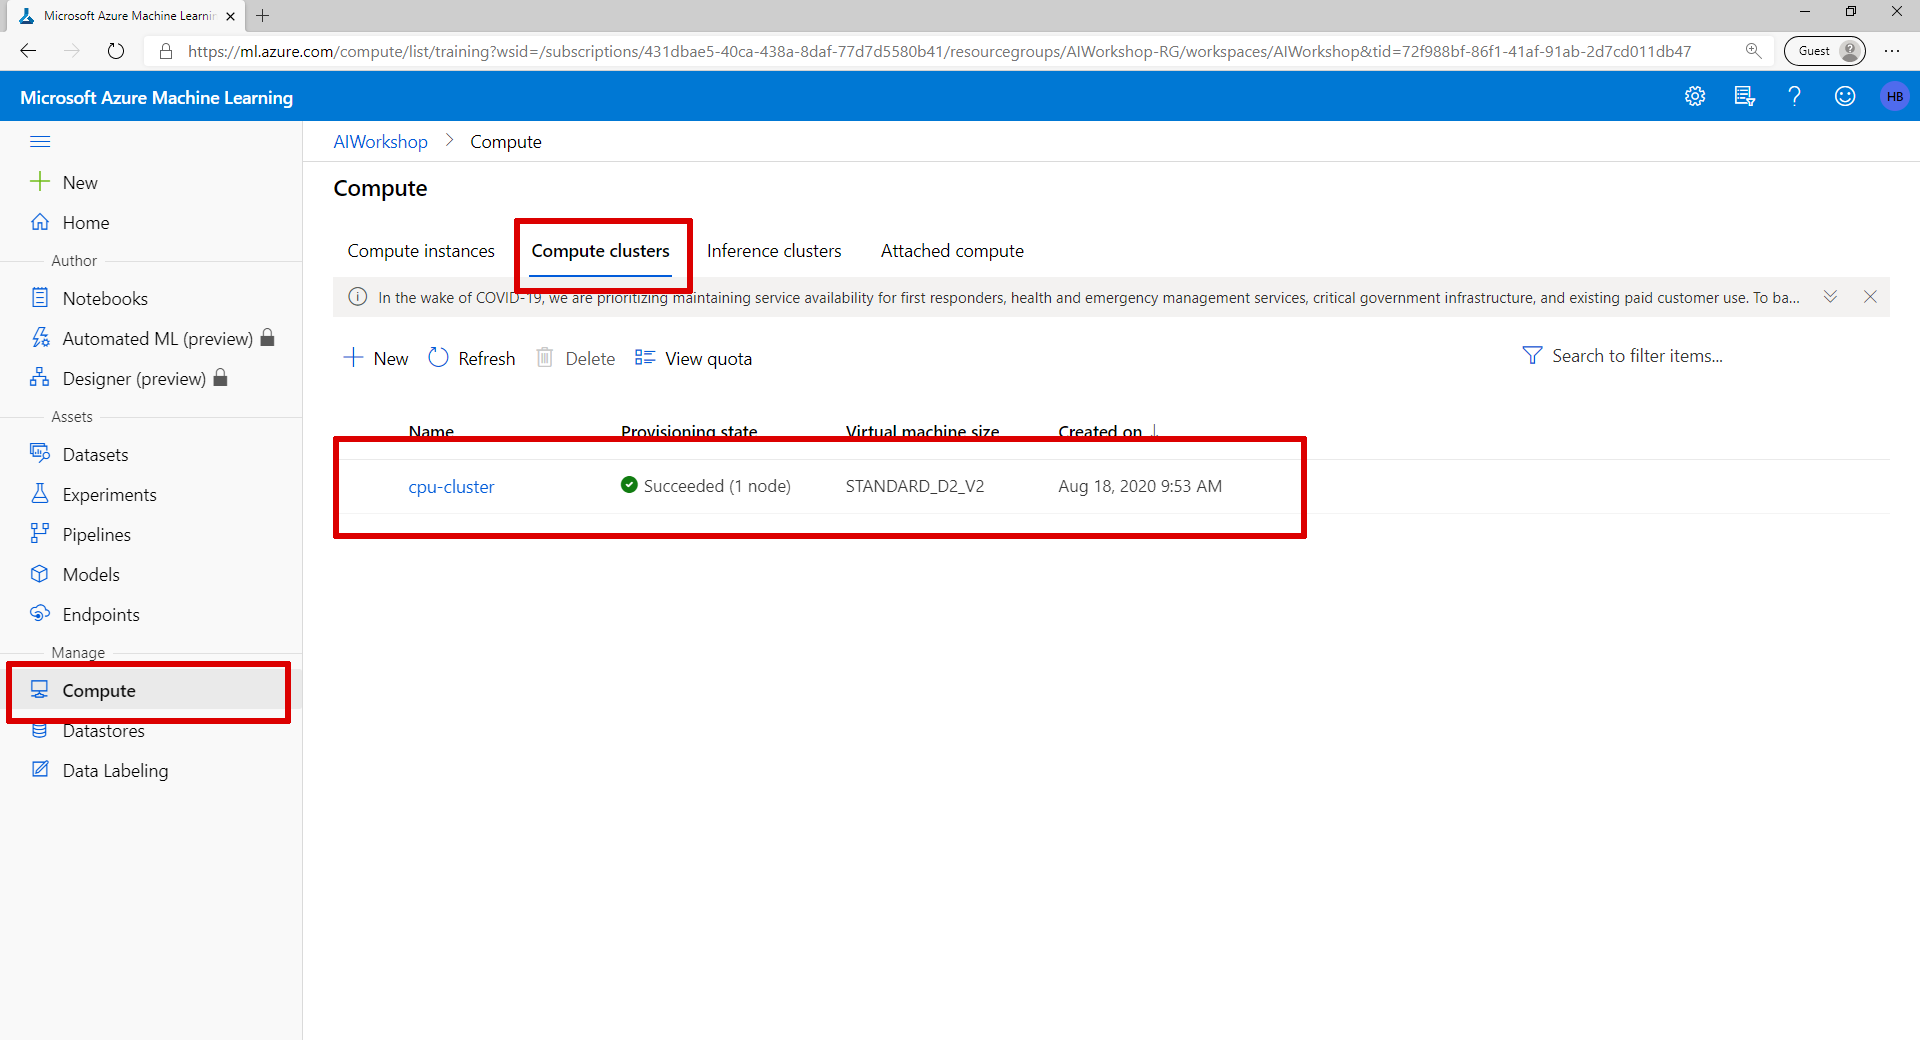
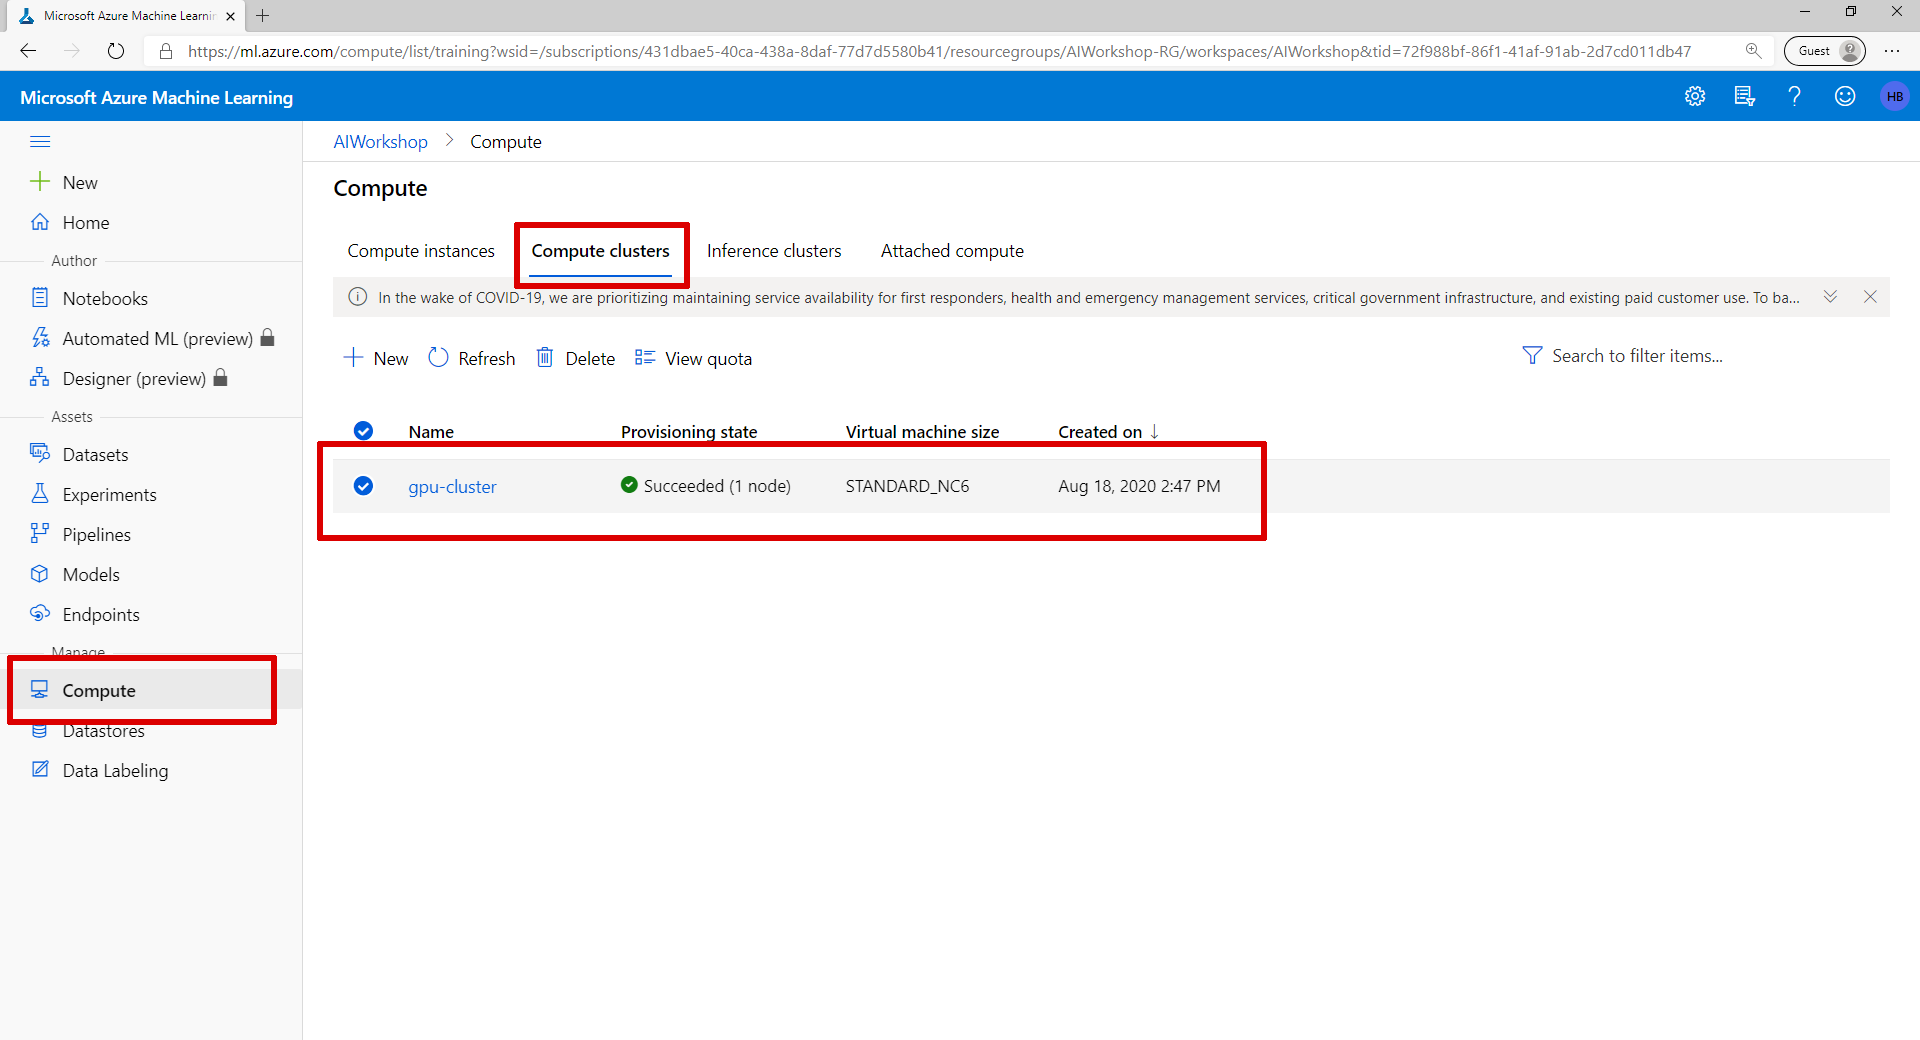
AMLS - Lab 1 & 2 init

diff --git a/amls/lab-2.md b/amls/lab-2.md
@@ -1,0 +1,337 @@
+# Lab 2: Train your model
+
+In this lab we are going the train a PyTorch Model that can classify Simpsons using the resources we have created in the [previous lab](lab-1.md).
+
+
+## Import dependencies
+Start with importing dependencies. If you are using a Notebook in Azure Machine Learning Studio, you have all the latest versions install. If you are running your own Jupyter notebook then you have to install the azureml-sdk (pip install azureml-sdk).
+
+- Paste the code below in the first cell and run this cell.
+
+```
+import os
+import azureml
+import shutil
+import urllib.request
+import zipfile
+
+
+from azureml.core.model import Model, InferenceConfig
+from azureml.core import Workspace, Datastore, Experiment, Run
+from azureml.core.compute import ComputeTarget, AmlCompute, ComputeTarget
+from azureml.train.dnn import PyTorch
+from azureml.widgets import RunDetails
+from azureml.core.webservice import Webservice, AciWebservice
+from azureml.core.environment import Environment
+from azureml.core.dataset import Dataset
+from azureml.core.resource_configuration import ResourceConfiguration
+from azureml.core.conda_dependencies import CondaDependencies 
+
+# check core SDK version number
+print("Azure ML SDK Version: ", azureml.core.VERSION)
+```
+![Import dependencies](img/model-dependencies.png)
+
+## Connect to your resources
+
+### Connect to workspace
+- Create a new code cell by clicking on the + symbol
+- Paste the code below
+```
+ws = Workspace.from_config()
+print("Connected to workspace: AIWorkshop:",ws.name)
+```
+- Run the cell
+- Performing the interactive authentication using the link and code provide
+- Run the cell again
+- It should say: "Connected to workspace: <your workspace name>"
+
+### Connect to Azure Machine Learning Compute Cluster
+```
+compute_target = ComputeTarget(workspace=ws, name="gpu-cluster")
+print("Connected to compute Target:",compute_target.name)
+```
+
+### Connect to the default datastore
+```
+ds = Datastore.get_default(ws)
+print("Connected to datastore:",ds.name)
+```
+
+![Connect to resources](img/model-connect.png)
+
+### Create an experiment
+```
+exp = Experiment(workspace=ws, name='Simpsons-PyTorch')
+print("Experiment created:",exp.name)
+```
+
+> View your created experiment on: [https://ml.azure.com](https://ml.azure.com/experiments)
+
+## Data
+
+
+
+### Download the dataset from Github
+```
+data_url = "https://github.com/hnky/dataset-lego-figures/raw/master/_download/train-and-validate.zip"
+data_path = "./data"
+download_path = os.path.join(data_path,"train-and-validate.zip")
+if not os.path.exists(data_path):
+    os.mkdir(data_path,);
+urllib.request.urlretrieve(data_url, filename=download_path)
+```
+
+### Unzip the dataset
+```
+zip_ref = zipfile.ZipFile(download_path, 'r')
+zip_ref.extractall(data_path)
+zip_ref.close()
+print("Data extracted in: {}".format(data_path))
+
+os.remove(download_path)
+print("Downloaded file removed: {}".format(download_path))
+```
+
+> View your the downloaded dataset: [https://ml.azure.com](https://ml.azure.com/fileexplorerAzNB)
+
+![Dataset](img/model-data-download.png)
+
+### Preview the dataset
+
+To take a peak at the images in the dataset paste and the run the code below.
+
+```
+from mpl_toolkits.axes_grid1 import AxesGrid
+import random
+import cv2
+import matplotlib.pyplot as plt
+
+path = r"data/train"
+random_filenames = []
+for tag in os.listdir(path):
+    random_filenames.append(path+"/"+tag+"/"+random.choice([
+        x for x in os.listdir(os.path.join(path,tag))
+        if os.path.isfile(os.path.join(path,tag, x))
+    ]))
+
+grid = AxesGrid(plt.figure(1, (20,20)), 111, nrows_ncols=(4, 5), axes_pad=0, label_mode="1")
+
+i = 0
+for img_name in random_filenames[0:10]:
+    
+    # Download image
+    image = cv2.imread(img_name)
+    image = cv2.resize(image, (352, 352))
+    image = cv2.cvtColor(image, cv2.COLOR_BGR2RGB)
+    
+    # Show image in grid
+    grid[i].imshow(image)
+    i = i+1
+```
+![Dataset](img/model-data-preview.png)
+
+### Upload the data to the datastore
+```
+ds.upload(src_dir=data_path, target_path='simpsonslego', overwrite=True, show_progress=True)
+```
+
+### Create a dataset from the data in the datastore
+```
+datastore_paths = [(ds, 'simpsonslego/**')]
+simpsons_ds = Dataset.File.from_files(path=datastore_paths)
+```
+
+### Register the dataset
+```
+simpsons_ds.register(workspace=ws,
+             name='LegoSimpsons',
+             description='Simpsons dataset with Lego Figures',
+             create_new_version = True)
+```
+
+### Load the dataset
+```
+simpsons_ds = Dataset.get_by_name(ws, name='LegoSimpsons')
+```
+
+## Train the model
+
+### Download the training script
+```
+project_folder = "./trainingscripts"
+
+training_script_url = "https://raw.githubusercontent.com/hnky/HandsOnAIWorkshop/master/amls/resources/train.py"
+
+training_script_download_path = os.path.join(project_folder,"train.py")
+if not os.path.exists(project_folder):
+    os.mkdir(project_folder);
+urllib.request.urlretrieve(training_script_url, filename=training_script_download_path)
+```
+
+> Refresh your files and validate that 'train.py' is downloaded in the folder 'trainingscripts': [https://ml.azure.com](https://ml.azure.com/fileexplorerAzNB)
+
+
+![Training Script](img/model-script.png)
+
+
+### Create the PyTorch estimator
+```
+script_params = {
+    '--data-folder': simpsons_ds.as_named_input('simpsonsdataset').as_mount(),
+    '--num-epochs': 15
+}
+
+estimator = PyTorch(source_directory=project_folder, 
+                    script_params=script_params,
+                    compute_target=compute_target,
+                    entry_script='train.py',
+                    use_gpu=True,
+                    pip_packages=['azureml-dataprep[fuse,pandas]','pillow==5.4.1'],
+                    framework_version='1.3')
+```
+
+### Submit the PyTorch estimator
+```
+run = exp.submit(estimator)
+```
+
+### Follow the progress of the run
+```
+RunDetails(run).show()
+```
+- Click on 'View run details' to view all the details of the run under the experiment.
+
+![Training starting](img/model-train1.png)
+
+> **This step can take up to 15 minutes to complete** 
+
+
+![Training done](img/model-done.png)
+
+### Register the model
+```
+model = run.register_model(model_name='Simpsons-PyTorch',
+                           model_path='outputs',
+                           model_framework='PyTorch',
+                           model_framework_version='1.3',
+                           description="Simpsons PyTorch Classifier (From Jupyter Notebook)",
+                           tags={'Conference':'Awesome AI Workshop'},
+                           resource_configuration=ResourceConfiguration(cpu=1, memory_in_gb=2))
+
+print("Model '{}' version {} registered ".format(model.name,model.version))
+```
+
+![Test results](img/model-management.png)
+
+> Validate that your model is visible under 'Models': [https://ml.azure.com](https://ml.azure.com/model/list)
+
+
+
+
+## Download and test your model
+
+
+### Download the model
+```
+model.download(exist_ok=True)
+```
+
+### Download test images
+
+```
+test_images_url = "https://github.com/hnky/dataset-lego-figures/raw/master/_download/test-images.zip"
+test_images_path = r"./data/test"
+test_images_download_path = os.path.join(test_images_path,"test-images.zip")
+if not os.path.exists(test_images_path):
+    os.mkdir(test_images_path,);
+urllib.request.urlretrieve(test_images_url, filename=test_images_download_path)
+```
+
+### Unzip test images
+```
+zip_ref = zipfile.ZipFile(test_images_download_path, 'r')
+zip_ref.extractall(test_images_path)
+zip_ref.close()
+print("Data extracted in: {}".format(test_images_path))
+
+os.remove(download_path)
+print("Downloaded file removed: {}".format(test_images_download_path))
+```
+
+
+### Run the model over the test images
+```
+import os
+import torch
+import torch.nn as nn
+import torchvision
+from torchvision import transforms
+import json
+import urllib
+from PIL import Image
+
+# Load the model
+loaded_model = torch.load(os.path.join('outputs','model.pth'), map_location=lambda storage, loc: storage)
+loaded_model.eval()
+
+# Load the labels
+with open(os.path.join('outputs','labels.txt'), 'rt') as lf:
+    global labels
+    labels = [l.strip() for l in lf.readlines()]
+
+    
+def scoreImage(image_link):
+    # Load the image to predict
+    input_image = Image.open(image_link)
+
+    # Pre process
+    preprocess = transforms.Compose([
+        transforms.Resize(225),
+        transforms.CenterCrop(224),
+        transforms.ToTensor(),
+        transforms.Normalize(mean=[0.485, 0.456, 0.406], std=[0.229, 0.224, 0.225]),
+    ])
+    input_tensor = preprocess(input_image)
+    input_batch = input_tensor.unsqueeze(0)
+
+    # Predict the image
+    if torch.cuda.is_available():
+        input_batch = input_batch.to('cuda')
+        loaded_model.to('cuda')
+
+    with torch.no_grad():
+        output = loaded_model(input_batch)
+
+    index = output.data.cpu().numpy().argmax()
+    probability = torch.nn.functional.softmax(output[0], dim=0).data.cpu().numpy().max()
+
+    #Return the result
+    return {"label": labels[index], "probability": round(probability*100,2)}
+
+path = r"data/test"
+grid = AxesGrid(plt.figure(1, (20,20)), 111, nrows_ncols=(4, 5), axes_pad=0, label_mode="1")
+
+i = 0
+for img in os.listdir(path):
+    
+    #Score the image
+    result = scoreImage(os.path.join(path,img))
+    
+    # Download image
+    image = cv2.imread(os.path.join(path,img))
+    image = cv2.resize(image, (352, 352))
+    image = cv2.cvtColor(image, cv2.COLOR_BGR2RGB)
+    
+    cv2.rectangle(image, (0,260),(352,352),(255,255,255), -1)
+    cv2.putText(image, "{} - {}%".format(result['label'],result['probability']),(10, 300), cv2.FONT_HERSHEY_SIMPLEX, 0.65,(0,0,0),2,cv2.LINE_AA)    
+    
+    # Show image in grid
+    grid[i].imshow(image)
+    i = i+1
+```
+
+![Test results](img/model-results.png)
+
+----------
+**[Continue with lab 3 >](lab-3.md)**

diff --git a/amls/lab-1.md b/amls/lab-1.md
@@ -44,12 +44,12 @@ az ml folder attach -w <workspace-name> -g <resource-group-name>
 ### Create a Compute Cluster
 To train our model we need an Azure Machine Learning Compute cluster. To create a new compute cluster, use the following command.   
 
-This command will create a Azure Machine Learning Compute cluster with 1 node that is always on and is using Standard_D2_V2 virtual Machines.
+This command will create a Azure Machine Learning Compute cluster with 1 node that is always on and is using STANDARD_NC6 virtual Machines.
 
 *To speed up the training process you can use a GPU enabled NV6 machine*
 
 ```
-az ml computetarget create amlcompute -n cpu-cluster --min-nodes 1 --max-nodes 1 --vm-size Standard_D2_V2
+az ml computetarget create amlcompute -n cpu-cluster --min-nodes 1 --max-nodes 1 --vm-size STANDARD_NC6
 ```
 
 > View your created Azure Machine Learning Compute cluster on [https://ml.azure.com](https://ml.azure.com)
@@ -74,12 +74,6 @@ az ml computetarget create computeinstance -n <name> --vm-size Standard_D2_V2
 ### Create a Notebook
 
 - Navigate to the Notebook section in Azure Machien Learning Studio. 
-- Under 'My Files' create a new directory with the name 'Simpsons'
-
-![Create new folder](img/notebook-new-folder.png)
-
-
-- Select the newly create Simpsons folder.
 - Create a new file with name 'simpsons' and File type 'notebook'
 
 ![Create new folder](img/notebook-new-file.png)
